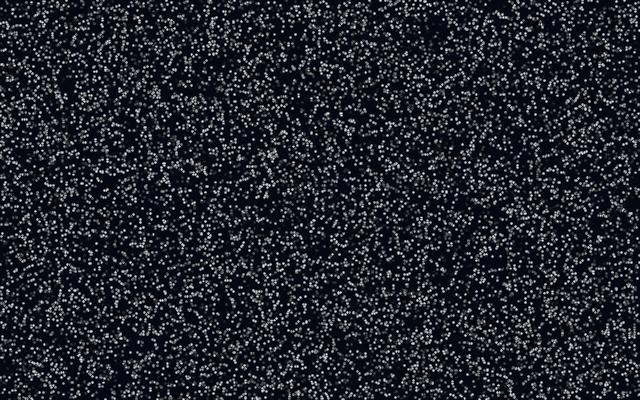
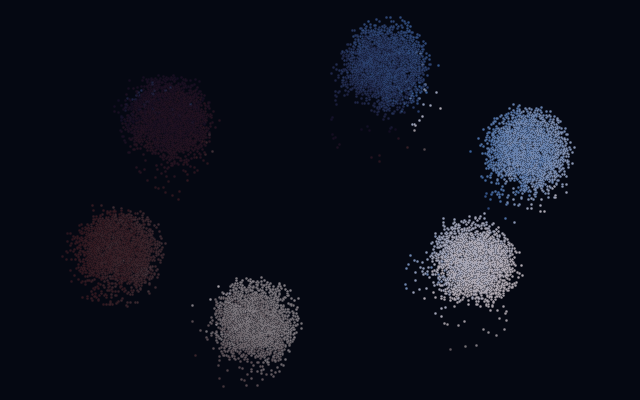
feat(boids): clustered initial flocks and 1x default speed to match native viewer
New initialFlocks param seeds distinct flocks on a ring instead of a
uniform scatter, so streams form immediately as they do in the mac
viewer. Default speed drops to 1x because the trail accumulator samples
positions once per rendered frame — faster multipliers bead the streaks
into dotted chains. Thumbnail regenerated at 300 warmup steps to show
formed streams.

diff --git a/src/sims/boids/kernel.ts b/src/sims/boids/kernel.ts
@@ -34,6 +34,9 @@ const DEFAULT_ALIGNMENT = 0.09;
 const DEFAULT_COHESION = 0.011;
 const DEFAULT_SEPARATION = 0.22;
 const DEFAULT_POINT_SIZE = 4;
+/** Matches the native viewer's spec: six ring-arranged flocks at load, so the
+ * first frames read as flocking rather than a uniform speckle. */
+const DEFAULT_INITIAL_FLOCKS = 6;
 const MAX_BOID_COUNT = 40000;
 /** Per-step random heading nudge as a fraction of max speed; a little keeps flocks
  * from freezing into rigid crystalline order, but too much washes the flocking
@@ -145,6 +148,16 @@ export class BoidsKernel implements SimKernel {
       info: "How many boids fly in the flock. More boids make the flow denser and the emergent shapes richer, at the cost of frame rate. Changing it resets the flock.",
     },
     {
+      key: "initialFlocks",
+      label: "Initial flocks",
+      type: "number",
+      default: DEFAULT_INITIAL_FLOCKS,
+      min: 0,
+      max: 12,
+      step: 1,
+      info: "How many coherent flocks the boids start in, arranged on a ring and already heading together, so the opening frames read as flocking rather than static. Zero (or one) scatters every boid uniformly at random and lets flocks assemble on their own. Changing it resets the flock.",
+    },
+    {
       key: "visualRadius",
       label: "Visual radius",
       type: "number",
@@ -232,6 +245,7 @@ export class BoidsKernel implements SimKernel {
   private binNext = new Int32Array(0);
   private stepCounter = 0;
   private seed = 0;
+  private initialFlocks = DEFAULT_INITIAL_FLOCKS;
   private boidCount = DEFAULT_BOID_COUNT;
   private visualRadius = DEFAULT_VISUAL_RADIUS;
   private separationRadius = DEFAULT_SEPARATION_RADIUS;
@@ -280,6 +294,9 @@ export class BoidsKernel implements SimKernel {
       numberParam(params, "separation", DEFAULT_SEPARATION),
       0,
       1,
+    );
+    this.initialFlocks = Math.floor(
+      clamp(numberParam(params, "initialFlocks", DEFAULT_INITIAL_FLOCKS), 0, 12),
     );
     // Optional run-to-run variety: a non-zero seed shifts the initial flock so
     // each load/reset differs. Absent (0), seeding stays a pure function of the
@@ -598,12 +615,59 @@ export class BoidsKernel implements SimKernel {
       0;
     const random = mulberry32(seed);
 
+    if (this.initialFlocks >= 2) {
+      this.seedClusteredBoids(random);
+      return;
+    }
+
     for (let i = 0; i < this.boidCount; i += 1) {
       this.x[i] = random() * this.width;
       this.y[i] = random() * this.height;
 
       const velocityAngle = random() * TWO_PI;
       const speed = this.maxSpeed * (0.45 + random() * 0.55);
+      this.vx[i] = Math.cos(velocityAngle) * speed;
+      this.vy[i] = Math.sin(velocityAngle) * speed;
+    }
+  }
+
+  /** Ported from the native viewer's seedClusteredBoids: flocks start as
+   * tight discs on a ring about the centre, each already heading tangentially,
+   * so heading-hue colour reads as coherent lanes from the first frame. */
+  private seedClusteredBoids(random: () => number): void {
+    const count = this.initialFlocks;
+    const centreX = this.width * 0.5;
+    const centreY = this.height * 0.5;
+    const ringX = this.width * 0.31;
+    const ringY = this.height * 0.29;
+    const spread = Math.min(this.width, this.height) * 0.085;
+    const centresX = new Float64Array(count);
+    const centresY = new Float64Array(count);
+    const headings = new Float64Array(count);
+
+    for (let flock = 0; flock < count; flock += 1) {
+      const ringAngle =
+        (TWO_PI * flock) / count + (random() - 0.5) * 0.16;
+      centresX[flock] = centreX + Math.cos(ringAngle) * ringX;
+      centresY[flock] = centreY + Math.sin(ringAngle) * ringY;
+      headings[flock] = ringAngle + Math.PI / 2 + (random() - 0.5) * 0.35;
+    }
+
+    for (let i = 0; i < this.boidCount; i += 1) {
+      const flock = i % count;
+      const offsetAngle = random() * TWO_PI;
+      const offsetRadius = spread * Math.sqrt(random());
+      this.x[i] = wrap(
+        centresX[flock] + Math.cos(offsetAngle) * offsetRadius,
+        this.width,
+      );
+      this.y[i] = wrap(
+        centresY[flock] + Math.sin(offsetAngle) * offsetRadius,
+        this.height,
+      );
+
+      const velocityAngle = headings[flock] + (random() - 0.5) * 0.55;
+      const speed = this.maxSpeed * (0.55 + random() * 0.35);
       this.vx[i] = Math.cos(velocityAngle) * speed;
       this.vy[i] = Math.sin(velocityAngle) * speed;
     }

diff --git a/src/app/simView.ts b/src/app/simView.ts
@@ -70,7 +70,7 @@ const PARAM_GROUPS: Readonly<
   // kernel paramSchema's `group` field (docs/INTERFACE.md v1.3.0) instead of
   // this per-sim table — see ControlsPanel's schema-native grouping.
   boids: [
-    { label: "Flock", keys: ["boidCount", "maxSpeed"] },
+    { label: "Flock", keys: ["boidCount", "initialFlocks", "maxSpeed"] },
     { label: "Perception", keys: ["visualRadius", "separationRadius"] },
     { label: "Steering", keys: ["alignment", "cohesion", "separation"] },
   ],
@@ -1148,7 +1148,11 @@ function speedProfileFor(slug: string): SpeedProfile {
       // calls (fade sweeps included), so it stays at 1x like the attractors.
       return { initial: 1, control: careful };
     case "boids":
-      return { initial: 5, control: swarm };
+      // 1x, not faster: the renderer samples positions once per rendered
+      // frame, so at Nx the trail accumulator sees every Nth position and the
+      // streaks bead into dotted chains. At 1x they draw as the continuous
+      // comet-tails the native viewer shows.
+      return { initial: 1, control: swarm };
     case "particle-life":
       return { initial: 1, control: swarm };
     case "mandelbrot":
